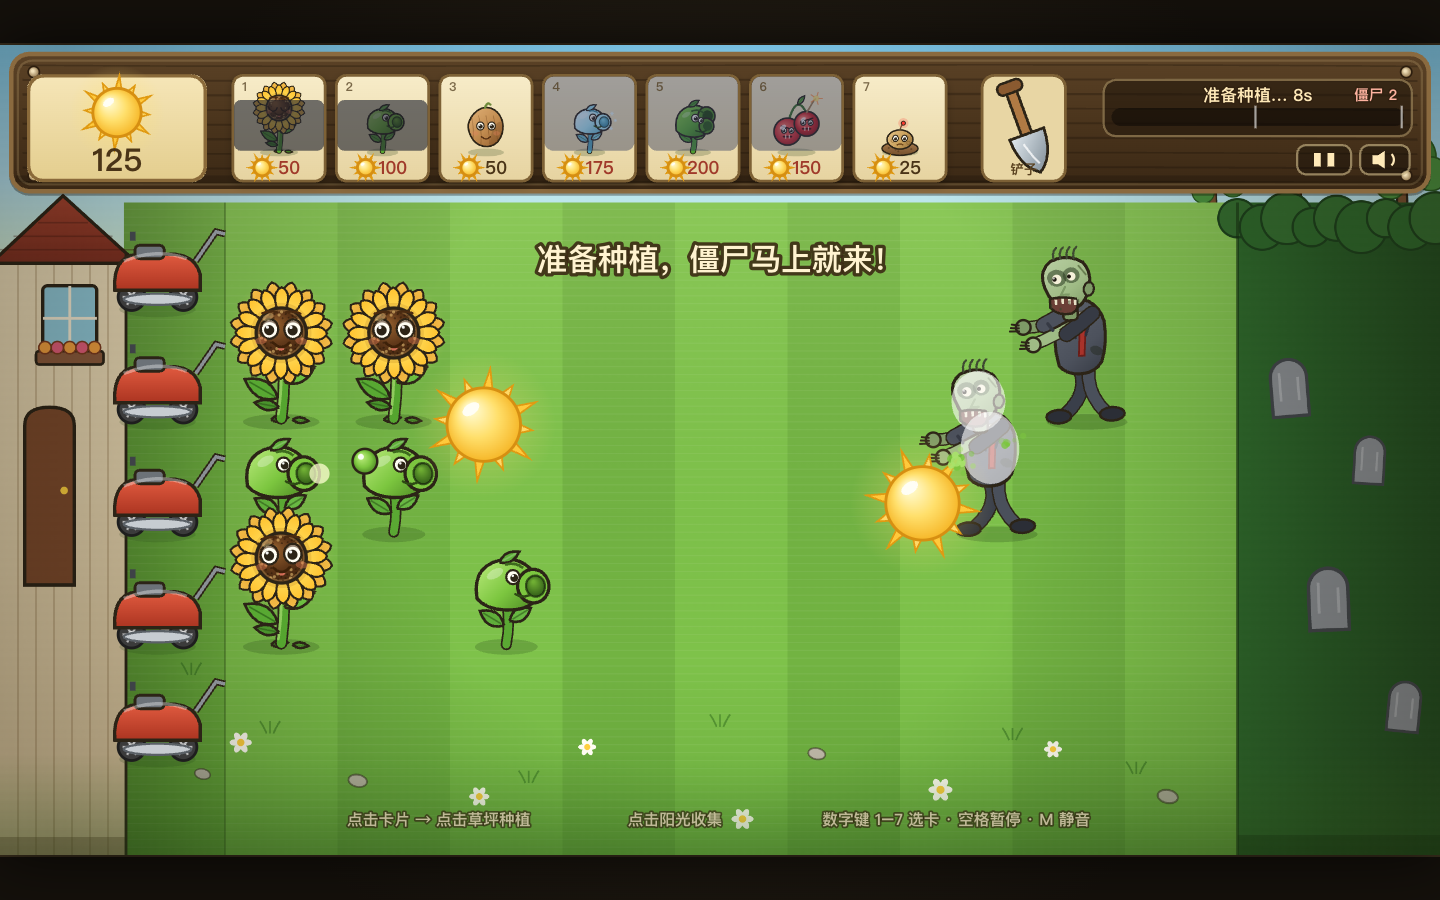
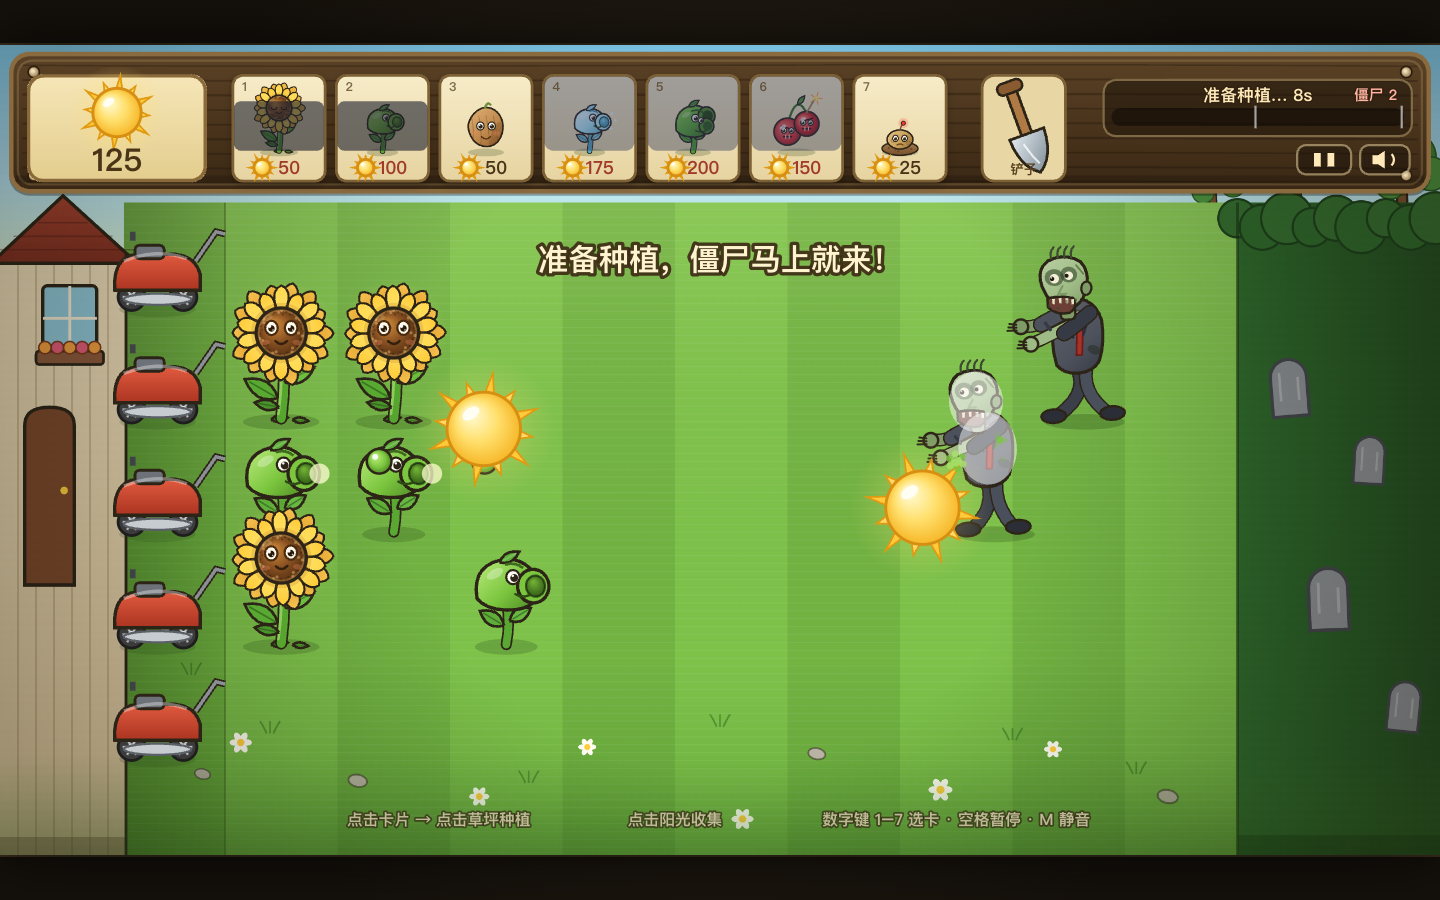
重做向日葵表情：更干净可爱的脸
- 去掉眉毛和小舌头，眼睛缩小、间距拉开，改成双高光小圆眼
- 正常状态用细线微笑；受伤/惊慌才有眉毛和半垂眼
- 花盘整体调暖，葵花籽只保留外圈，给脸留出干净区域

diff --git a/js/art.js b/js/art.js
@@ -1043,9 +1043,9 @@
     // 花盘
     const discR = 22.5;
     const dg = ctx.createRadialGradient(-7, -8, 3, 0, 0, discR + 2);
-    dg.addColorStop(0, '#8f5c2c');
-    dg.addColorStop(0.5, '#61391a');
-    dg.addColorStop(1, '#3a200b');
+    dg.addColorStop(0, '#c58336');
+    dg.addColorStop(0.45, '#8a5222');
+    dg.addColorStop(1, '#4a290e');
     ctx.beginPath();
     ctx.arc(0, 0, discR, 0, TAU);
     ctx.fillStyle = dg;
@@ -1065,102 +1065,134 @@
     ctx.beginPath();
     ctx.arc(0, 0, discR - 2, 0, TAU);
     ctx.clip();
-    for (let i = 0; i < 54; i++) {
+    for (let i = 0; i < 40; i++) {
       // 只在外圈铺籽，给脸留出干净区域
-      const rad = 11.5 + Math.sqrt(i / 54) * (discR - 13.5);
+      const rad = 15.5 + Math.sqrt(i / 40) * (discR - 17.5);
       const a = i * 2.399963;
       const sx = Math.cos(a) * rad;
       const sy = Math.sin(a) * rad;
       ctx.beginPath();
       ctx.arc(sx, sy, i % 3 === 0 ? 1.4 : 0.95, 0, TAU);
-      ctx.fillStyle = i % 3 === 0 ? 'rgba(255, 214, 130, 0.5)' : 'rgba(28, 16, 6, 0.45)';
+      ctx.fillStyle = i % 3 === 0 ? 'rgba(255, 214, 130, 0.4)' : 'rgba(28, 16, 6, 0.32)';
       ctx.fill();
     }
     ctx.restore();
 
-    // 表情
-    const blink = !low && (t % 4.3) < 0.13;
-    const eyeY = -3.5;
-    const look = low ? -0.35 : -0.12;
+    // 表情（简洁卡通脸：小圆眼 + 高光 + 小张嘴，不再用眉毛和舌头）
+    const blink = !low && (t % 4.6) < 0.12;
+    const eyeY = -4.5;
+    const look = low ? 0.35 : 0.18;
+    const drawEye = (x, y, w, h, pr) => {
+      ctx.beginPath();
+      ctx.ellipse(x, y, w, h, 0, 0, TAU);
+      ctx.fillStyle = '#fff9e8';
+      ctx.fill();
+      ctx.lineWidth = 2;
+      ctx.strokeStyle = '#4a2a10';
+      ctx.stroke();
+      const px = x;
+      const py = y + look * h * 0.45;
+      ctx.beginPath();
+      ctx.arc(px, py, pr, 0, TAU);
+      ctx.fillStyle = '#2a190b';
+      ctx.fill();
+      // 双高光
+      ctx.beginPath();
+      ctx.arc(px - w * 0.3, py - h * 0.3, w * 0.26, 0, TAU);
+      ctx.fillStyle = 'rgba(255, 255, 255, 0.95)';
+      ctx.fill();
+      ctx.beginPath();
+      ctx.arc(px + w * 0.24, py + h * 0.2, w * 0.13, 0, TAU);
+      ctx.fillStyle = 'rgba(255, 255, 255, 0.7)';
+      ctx.fill();
+    };
     if (blink) {
       ctx.strokeStyle = '#2f1a0a';
-      ctx.lineWidth = 2.4;
+      ctx.lineWidth = 2.2;
       ctx.lineCap = 'round';
       ctx.beginPath();
-      ctx.arc(-10.5, eyeY + 2, 7.2, 0.15, Math.PI - 0.15);
+      ctx.arc(-8.8, eyeY + 2.4, 5.2, 0.2, Math.PI - 0.2);
       ctx.stroke();
       ctx.beginPath();
-      ctx.arc(10.5, eyeY + 2, 7.2, 0.15, Math.PI - 0.15);
+      ctx.arc(8.8, eyeY + 2.4, 5.2, 0.2, Math.PI - 0.2);
       ctx.stroke();
-      // 睫毛
-      ctx.beginPath();
-      ctx.moveTo(-17, eyeY + 4);
-      ctx.lineTo(-19.5, eyeY + 1);
-      ctx.moveTo(17, eyeY + 4);
-      ctx.lineTo(19.5, eyeY + 1);
-      ctx.stroke();
-    } else {
-      eye(ctx, -10.5, eyeY, 7.8, 8.8, look);
-      eye(ctx, 10.5, eyeY, 7.8, 8.8, look);
-      // 上眼睑（增加可爱度）
-      ctx.strokeStyle = 'rgba(60, 32, 10, 0.55)';
-      ctx.lineWidth = 1.8;
-      ctx.beginPath();
-      ctx.arc(-10.5, eyeY + 1, 8, Math.PI * 1.08, Math.PI * 1.92);
-      ctx.stroke();
-      ctx.beginPath();
-      ctx.arc(10.5, eyeY + 1, 8, Math.PI * 1.08, Math.PI * 1.92);
-      ctx.stroke();
-    }
-    // 眉毛
-    ctx.strokeStyle = '#4a2a10';
-    ctx.lineWidth = 2.2;
-    ctx.lineCap = 'round';
-    ctx.beginPath();
-    if (panic) {
-      ctx.moveTo(-18, eyeY - 15); ctx.lineTo(-6, eyeY - 11);
-      ctx.moveTo(18, eyeY - 15); ctx.lineTo(6, eyeY - 11);
+    } else if (panic) {
+      drawEye(-9.2, eyeY, 6.3, 7.3, 3.1);
+      drawEye(9.2, eyeY, 6.3, 7.3, 3.1);
     } else if (low) {
-      ctx.moveTo(-17, eyeY - 11); ctx.lineTo(-5, eyeY - 14);
-      ctx.moveTo(17, eyeY - 11); ctx.lineTo(5, eyeY - 14);
+      drawEye(-8.8, eyeY, 5.2, 5.9, 2.7);
+      drawEye(8.8, eyeY, 5.2, 5.9, 2.7);
+      // 半垂眼皮
+      ctx.strokeStyle = '#3a210c';
+      ctx.lineWidth = 2;
+      ctx.lineCap = 'round';
+      ctx.beginPath();
+      ctx.moveTo(-13.6, eyeY - 1.8);
+      ctx.quadraticCurveTo(-8.8, eyeY - 0.2, -4, eyeY - 1.8);
+      ctx.moveTo(13.6, eyeY - 1.8);
+      ctx.quadraticCurveTo(8.8, eyeY - 0.2, 4, eyeY - 1.8);
+      ctx.stroke();
     } else {
-      ctx.moveTo(-17, eyeY - 14);
-      ctx.quadraticCurveTo(-10, eyeY - 17, -4, eyeY - 15);
-      ctx.moveTo(17, eyeY - 14);
-      ctx.quadraticCurveTo(10, eyeY - 17, 4, eyeY - 15);
+      drawEye(-8.8, eyeY, 5.6, 6.4, 2.9);
+      drawEye(8.8, eyeY, 5.6, 6.4, 2.9);
     }
-    ctx.stroke();
+
+    // 受伤/惊慌时才有眉毛，正常状态保持干净
+    ctx.strokeStyle = '#3a210c';
+    ctx.lineWidth = 2;
+    ctx.lineCap = 'round';
+    if (panic) {
+      ctx.beginPath();
+      ctx.moveTo(-14, eyeY - 12);
+      ctx.quadraticCurveTo(-9, eyeY - 15, -4.5, eyeY - 12.5);
+      ctx.moveTo(14, eyeY - 12);
+      ctx.quadraticCurveTo(9, eyeY - 15, 4.5, eyeY - 12.5);
+      ctx.stroke();
+    } else if (low) {
+      ctx.beginPath();
+      ctx.moveTo(-13.5, eyeY - 9.5);
+      ctx.quadraticCurveTo(-9, eyeY - 12.5, -4.5, eyeY - 11);
+      ctx.moveTo(13.5, eyeY - 9.5);
+      ctx.quadraticCurveTo(9, eyeY - 12.5, 4.5, eyeY - 11);
+      ctx.stroke();
+    }
 
     // 腮红
-    ctx.fillStyle = 'rgba(232, 126, 86, 0.42)';
-    ctx.beginPath(); ctx.ellipse(-18, 7, 5.4, 3.2, -0.15, 0, TAU); ctx.fill();
-    ctx.beginPath(); ctx.ellipse(18, 7, 5.4, 3.2, 0.15, 0, TAU); ctx.fill();
+    if (!panic) {
+      ctx.fillStyle = 'rgba(236, 132, 92, 0.32)';
+      ctx.beginPath(); ctx.ellipse(-14.5, 8.5, 4.4, 2.4, -0.12, 0, TAU); ctx.fill();
+      ctx.beginPath(); ctx.ellipse(14.5, 8.5, 4.4, 2.4, 0.12, 0, TAU); ctx.fill();
+    }
 
     // 嘴巴
-    ctx.strokeStyle = '#3d2109';
-    ctx.lineWidth = 2.4;
-    ctx.beginPath();
     if (panic) {
-      ctx.ellipse(0, 11, 4.6, 5.6, 0, 0, TAU);
-    } else if (low) {
-      ctx.moveTo(-7, 12);
-      ctx.quadraticCurveTo(0, 7.5, 7, 12);
-    } else {
-      ctx.moveTo(-7.5, 8.5);
-      ctx.quadraticCurveTo(0, 16.5, 7.5, 8.5);
-    }
-    ctx.stroke();
-    if (!low) {
-      // 小舌头
       ctx.beginPath();
-      ctx.ellipse(0, 13.6, 3.1, 2.2, 0, 0, Math.PI);
-      ctx.fillStyle = 'rgba(232, 120, 100, 0.85)';
+      ctx.ellipse(0, 11.5, 3.4, 4.4, 0, 0, TAU);
+      ctx.fillStyle = '#33200f';
       ctx.fill();
+    } else if (low) {
+      ctx.beginPath();
+      ctx.moveTo(-5.4, 11.6);
+      ctx.quadraticCurveTo(-2.7, 9.4, 0, 11.4);
+      ctx.quadraticCurveTo(2.7, 13.4, 5.4, 11);
+      ctx.strokeStyle = '#2f1a08';
+      ctx.lineWidth = 2.2;
+      ctx.stroke();
+    } else {
+      // 干净的细线微笑
+      ctx.beginPath();
+      ctx.moveTo(-5.2, 7.2);
+      ctx.quadraticCurveTo(0, 12.6, 5.2, 7.2);
+      ctx.strokeStyle = '#33200f';
+      ctx.lineWidth = 2.3;
+      ctx.lineCap = 'round';
+      ctx.stroke();
     }
-    // 高光
+
+    // 花盘高光
     ctx.beginPath();
-    ctx.ellipse(-12, -14, 5.4, 2.8, -0.45, 0, TAU);
-    ctx.fillStyle = 'rgba(255, 226, 150, 0.35)';
+    ctx.ellipse(-12, -13.5, 5, 2.6, -0.45, 0, TAU);
+    ctx.fillStyle = 'rgba(255, 226, 150, 0.22)';
     ctx.fill();
 
     // 掉血时飘落的花粉
